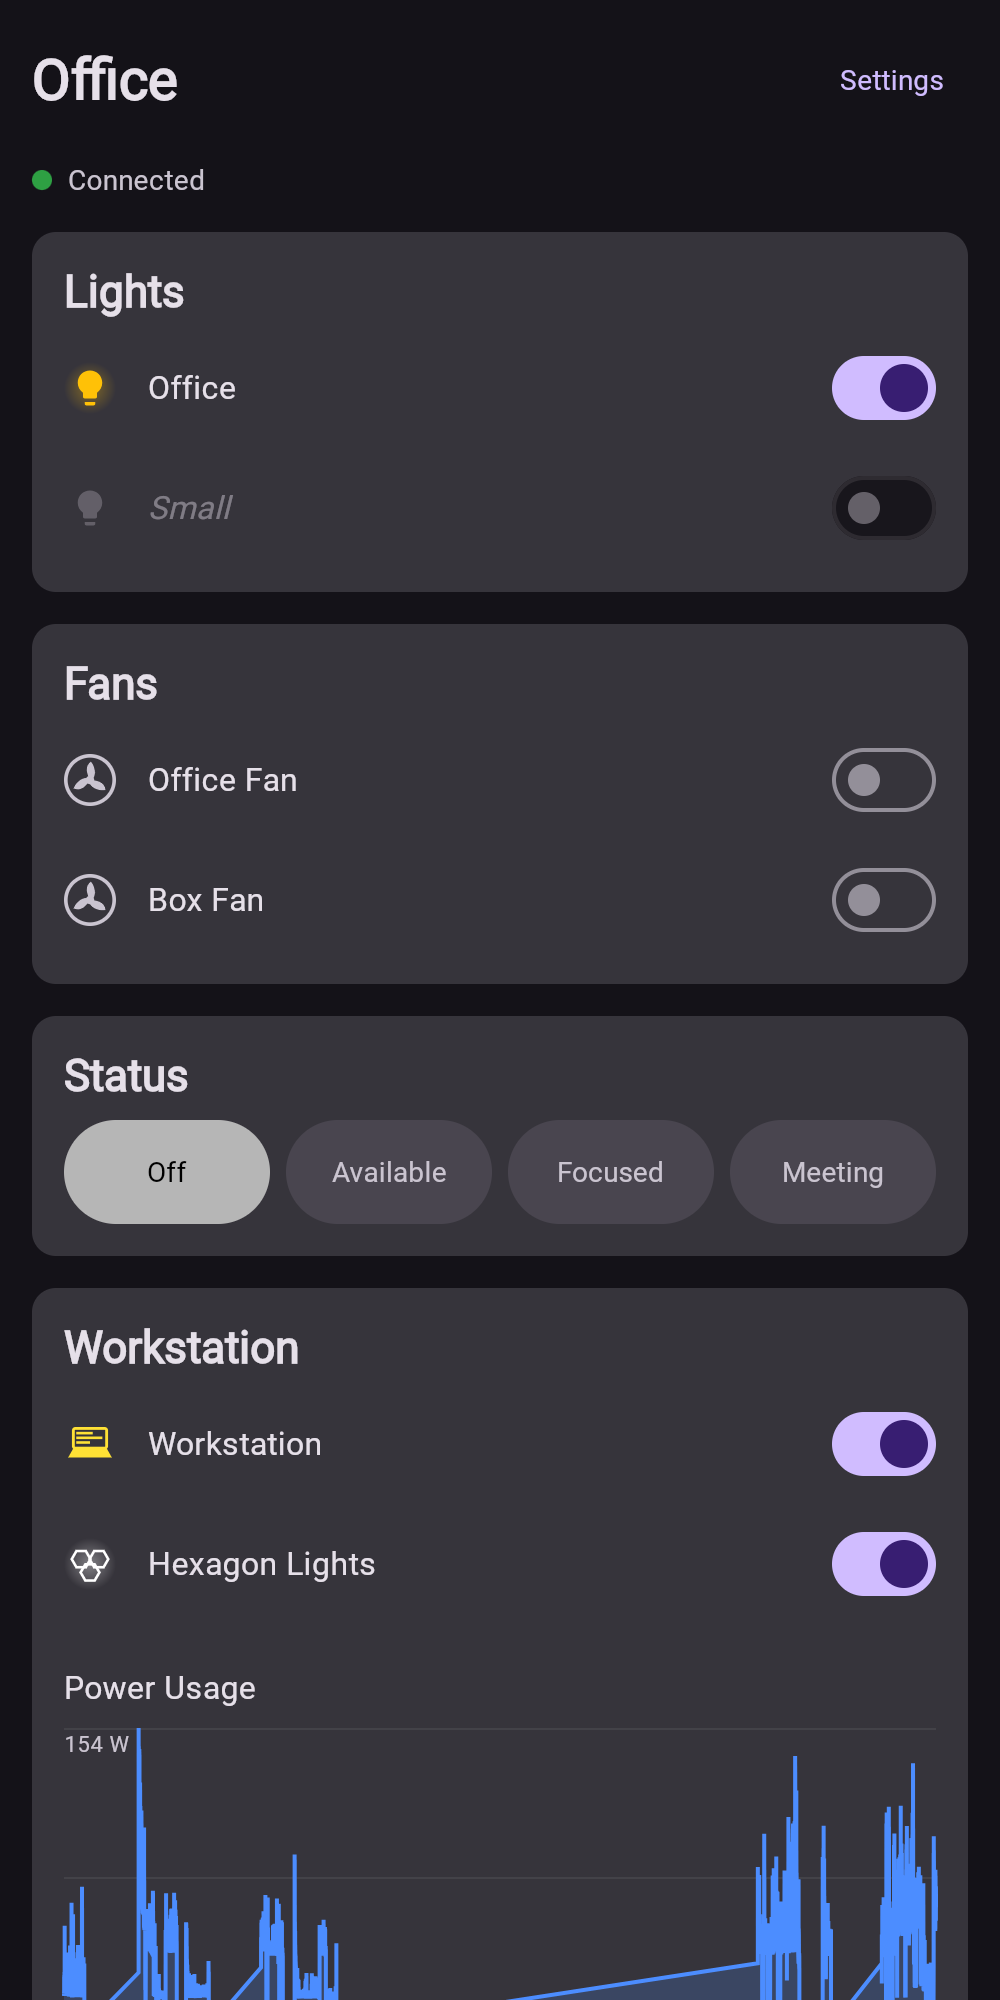
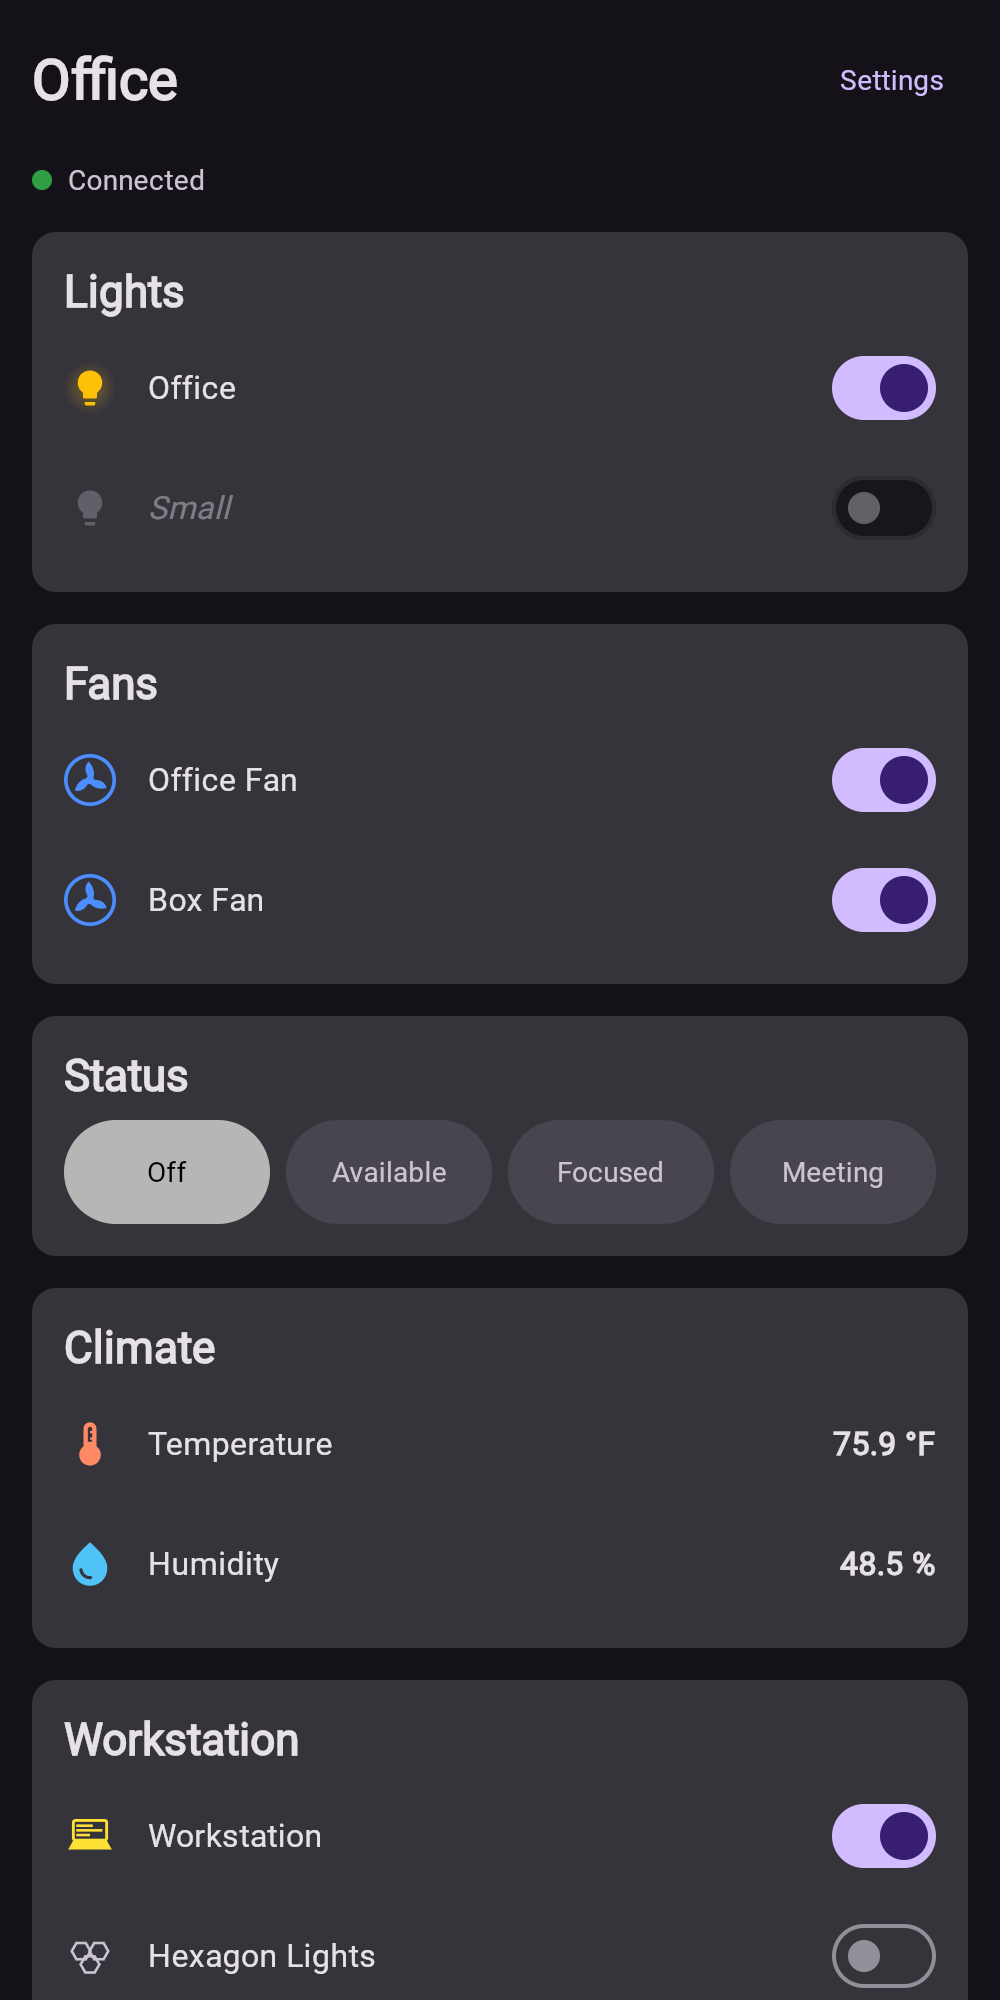
Office climate.

diff --git a/composeApp/src/commonMain/kotlin/com/degree/homedash/office/Controls.kt b/composeApp/src/commonMain/kotlin/com/degree/homedash/office/Controls.kt
@@ -33,10 +33,12 @@ import androidx.compose.ui.graphics.drawscope.clipRect
 import androidx.compose.ui.graphics.drawscope.rotate
 import androidx.compose.ui.graphics.vector.ImageVector
 import androidx.compose.ui.text.font.FontStyle
+import androidx.compose.ui.text.font.FontWeight
 import androidx.compose.ui.unit.dp
 import com.degree.homedash.shared.model.EntityState
 import kotlin.math.PI
 import kotlin.math.cos
+import kotlin.math.round
 import kotlin.math.sin
 
 private val AmberOn = Color(0xFFFFC107)
@@ -94,6 +96,38 @@ fun FanControl(
     onToggle: () -> Unit,
 ) = EntityToggleRow(name, entity, FanOn, onToggle) { tint ->
     FanIcon(spinning = entity?.isOn == true, tint = tint, modifier = Modifier.size(26.dp))
+}
+
+/** A read-only sensor readout: icon + label + formatted value (e.g. "76.3 °F"). */
+@Composable
+fun ClimateRow(label: String, entity: EntityState?, icon: ImageVector, tint: Color) {
+    val unit = entity?.attrString("unit_of_measurement").orEmpty()
+    val value = when {
+        entity == null || entity.isUnavailable -> "—"
+        else -> {
+            val v = entity.state.toDoubleOrNull()
+            val num = if (v != null) {
+                val r = round(v * 10.0) / 10.0
+                if (r == r.toLong().toDouble()) r.toLong().toString() else r.toString()
+            } else {
+                entity.state
+            }
+            if (unit.isNotEmpty()) "$num $unit" else num
+        }
+    }
+    Row(
+        modifier = Modifier.fillMaxWidth().height(52.dp),
+        verticalAlignment = Alignment.CenterVertically,
+    ) {
+        Icon(imageVector = icon, contentDescription = null, tint = tint, modifier = Modifier.size(26.dp))
+        Spacer(Modifier.width(16.dp))
+        Text(text = label, modifier = Modifier.weight(1f), style = MaterialTheme.typography.titleMedium)
+        Text(
+            text = value,
+            style = MaterialTheme.typography.titleMedium,
+            fontWeight = FontWeight.SemiBold,
+        )
+    }
 }
 
 /** Custom fan icon: static outer ring + three swept blades (rotating while [spinning]) + hub. */

diff --git a/composeApp/src/commonMain/kotlin/com/degree/homedash/office/OfficeScreen.kt b/composeApp/src/commonMain/kotlin/com/degree/homedash/office/OfficeScreen.kt
@@ -18,6 +18,8 @@ import androidx.compose.foundation.shape.CircleShape
 import androidx.compose.foundation.verticalScroll
 import androidx.compose.material.icons.Icons
 import androidx.compose.material.icons.filled.Lightbulb
+import androidx.compose.material.icons.filled.Thermostat
+import androidx.compose.material.icons.filled.WaterDrop
 import androidx.compose.material3.Button
 import androidx.compose.material3.ButtonDefaults
 import androidx.compose.material3.Card
@@ -107,6 +109,21 @@ fun OfficeScreen(repository: HaRepository, onOpenSettings: () -> Unit) {
                     }
                 }
             }
+        }
+
+        SectionCard("Climate") {
+            ClimateRow(
+                "Temperature",
+                states[OfficeEntities.TEMPERATURE],
+                Icons.Filled.Thermostat,
+                Color(0xFFFF8A65),
+            )
+            ClimateRow(
+                "Humidity",
+                states[OfficeEntities.HUMIDITY],
+                Icons.Filled.WaterDrop,
+                Color(0xFF4FC3F7),
+            )
         }
 
         SectionCard("Workstation") {

diff --git a/composeApp/src/commonMain/kotlin/com/degree/homedash/office/OfficeEntities.kt b/composeApp/src/commonMain/kotlin/com/degree/homedash/office/OfficeEntities.kt
@@ -19,6 +19,9 @@ object OfficeEntities {
 
     const val POWER = "sensor.office_workstation_power"
     const val ENERGY = "sensor.office_workstation_summation_delivered"
+
+    const val TEMPERATURE = "sensor.sonoff_snzb_02d_temperature"
+    const val HUMIDITY = "sensor.sonoff_snzb_02d_humidity"
 }
 
 /** The four office "signal" states; [stateValue] matches `sensor.office_signal_mode`. */